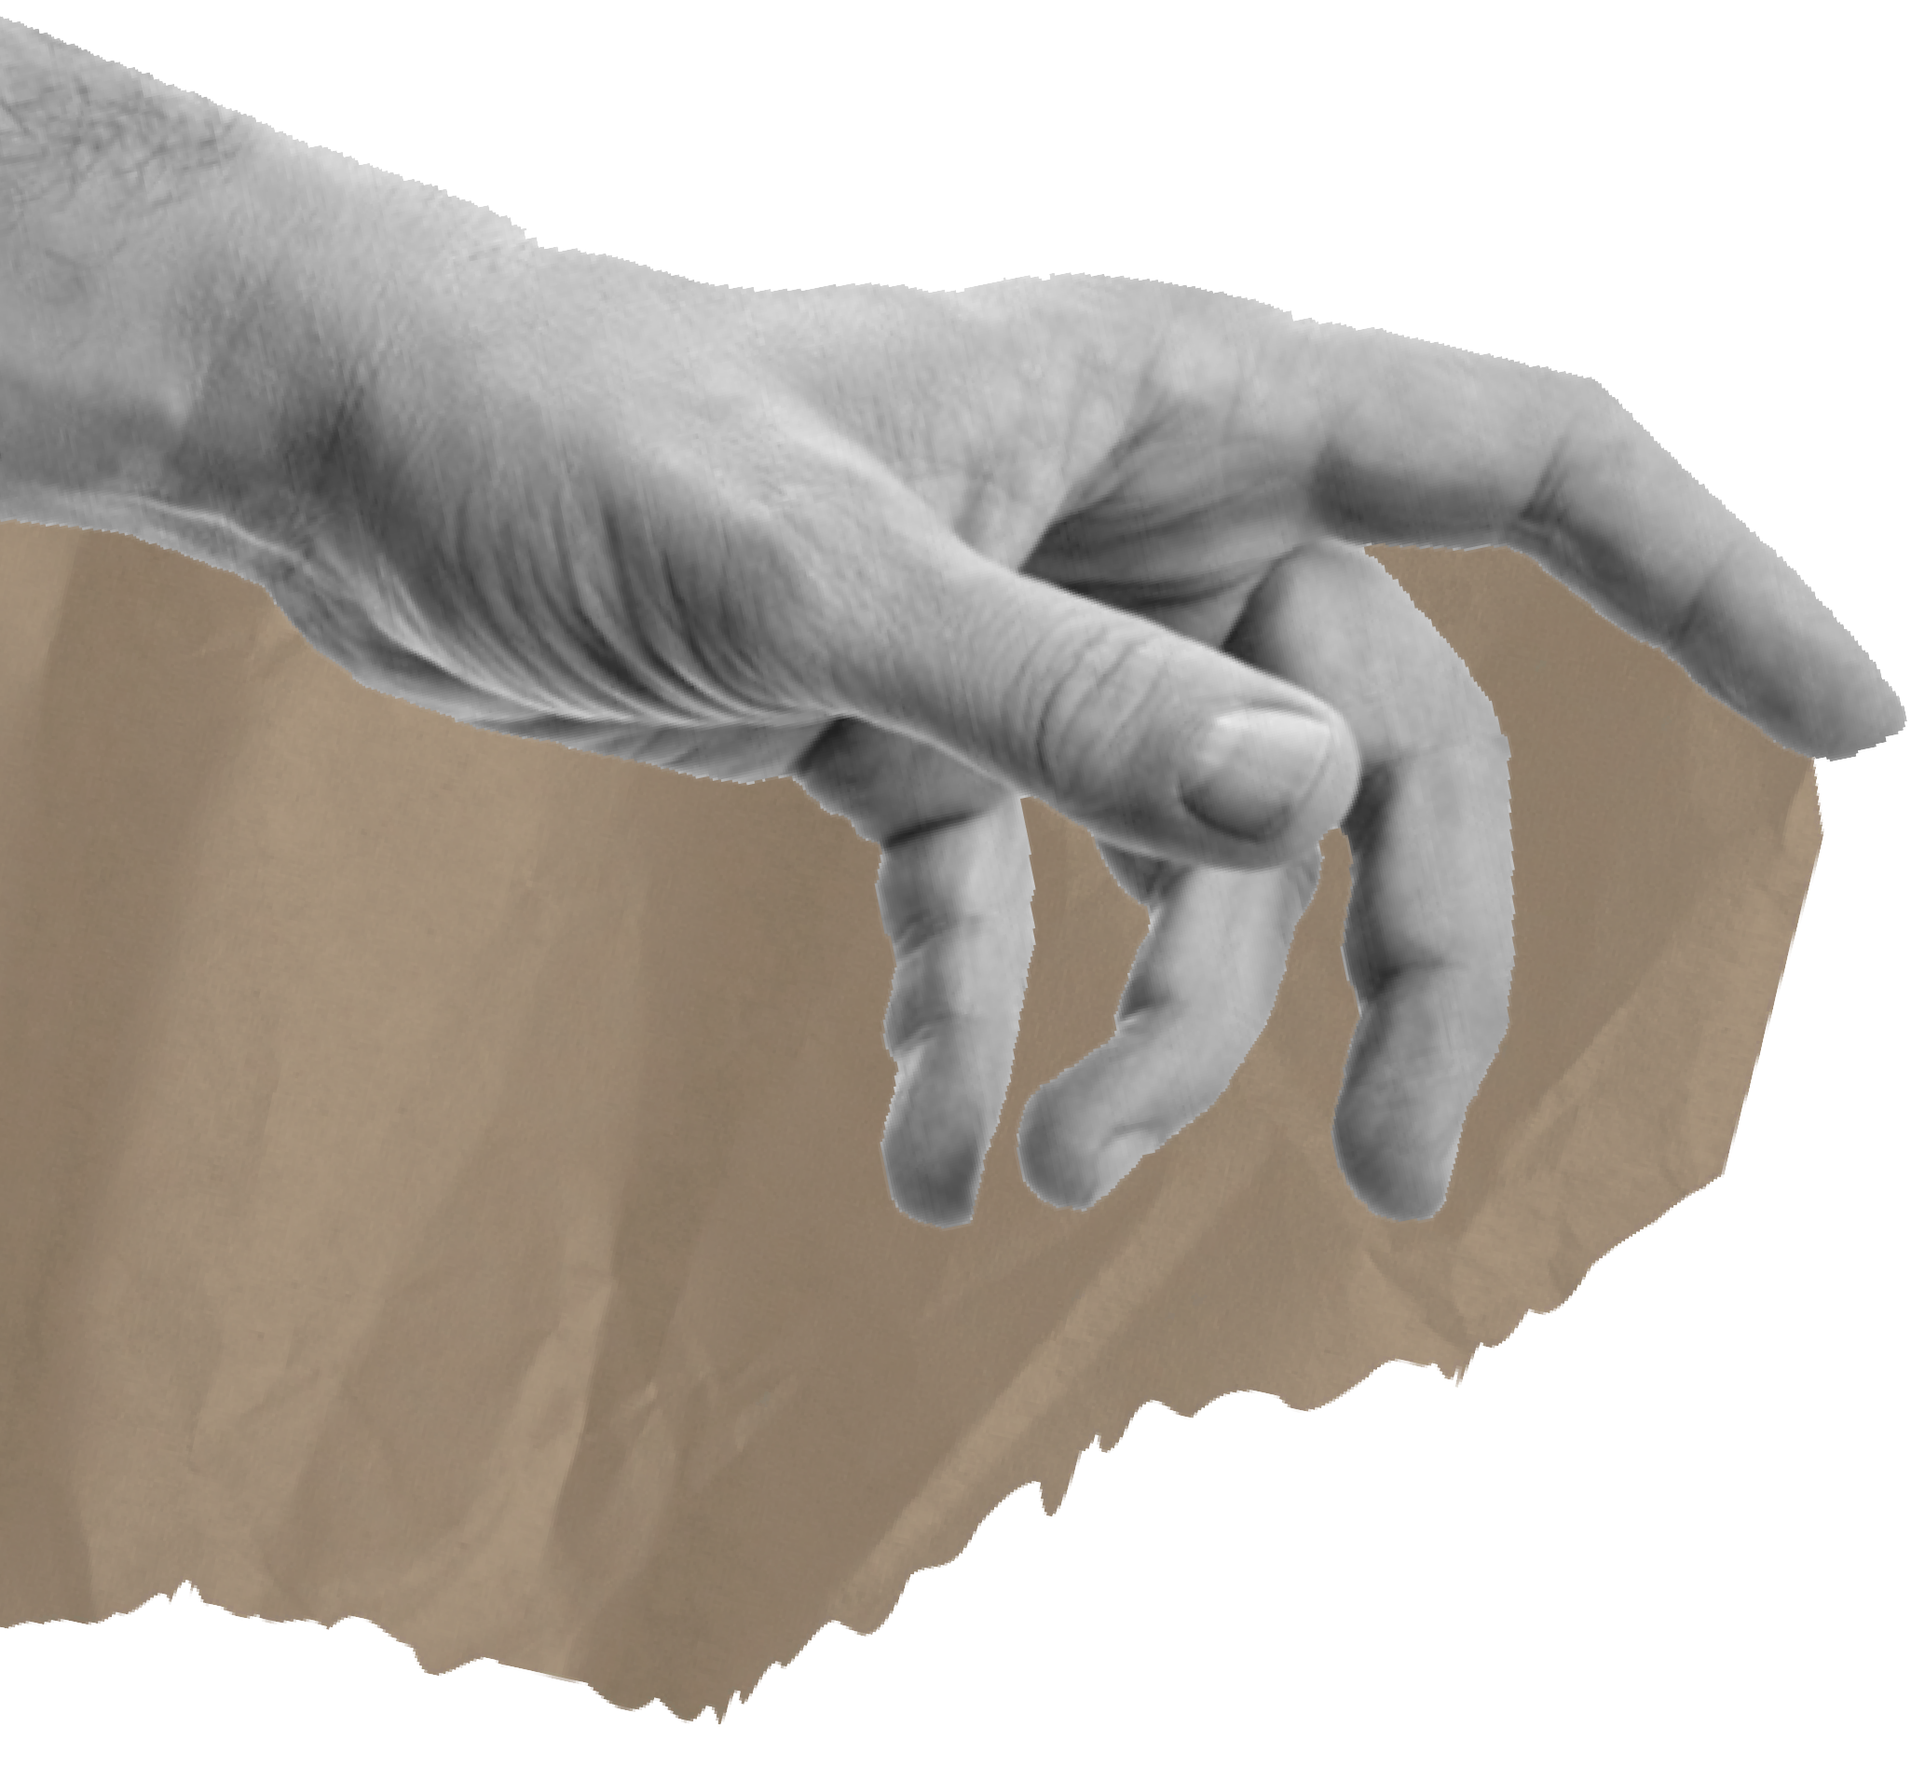
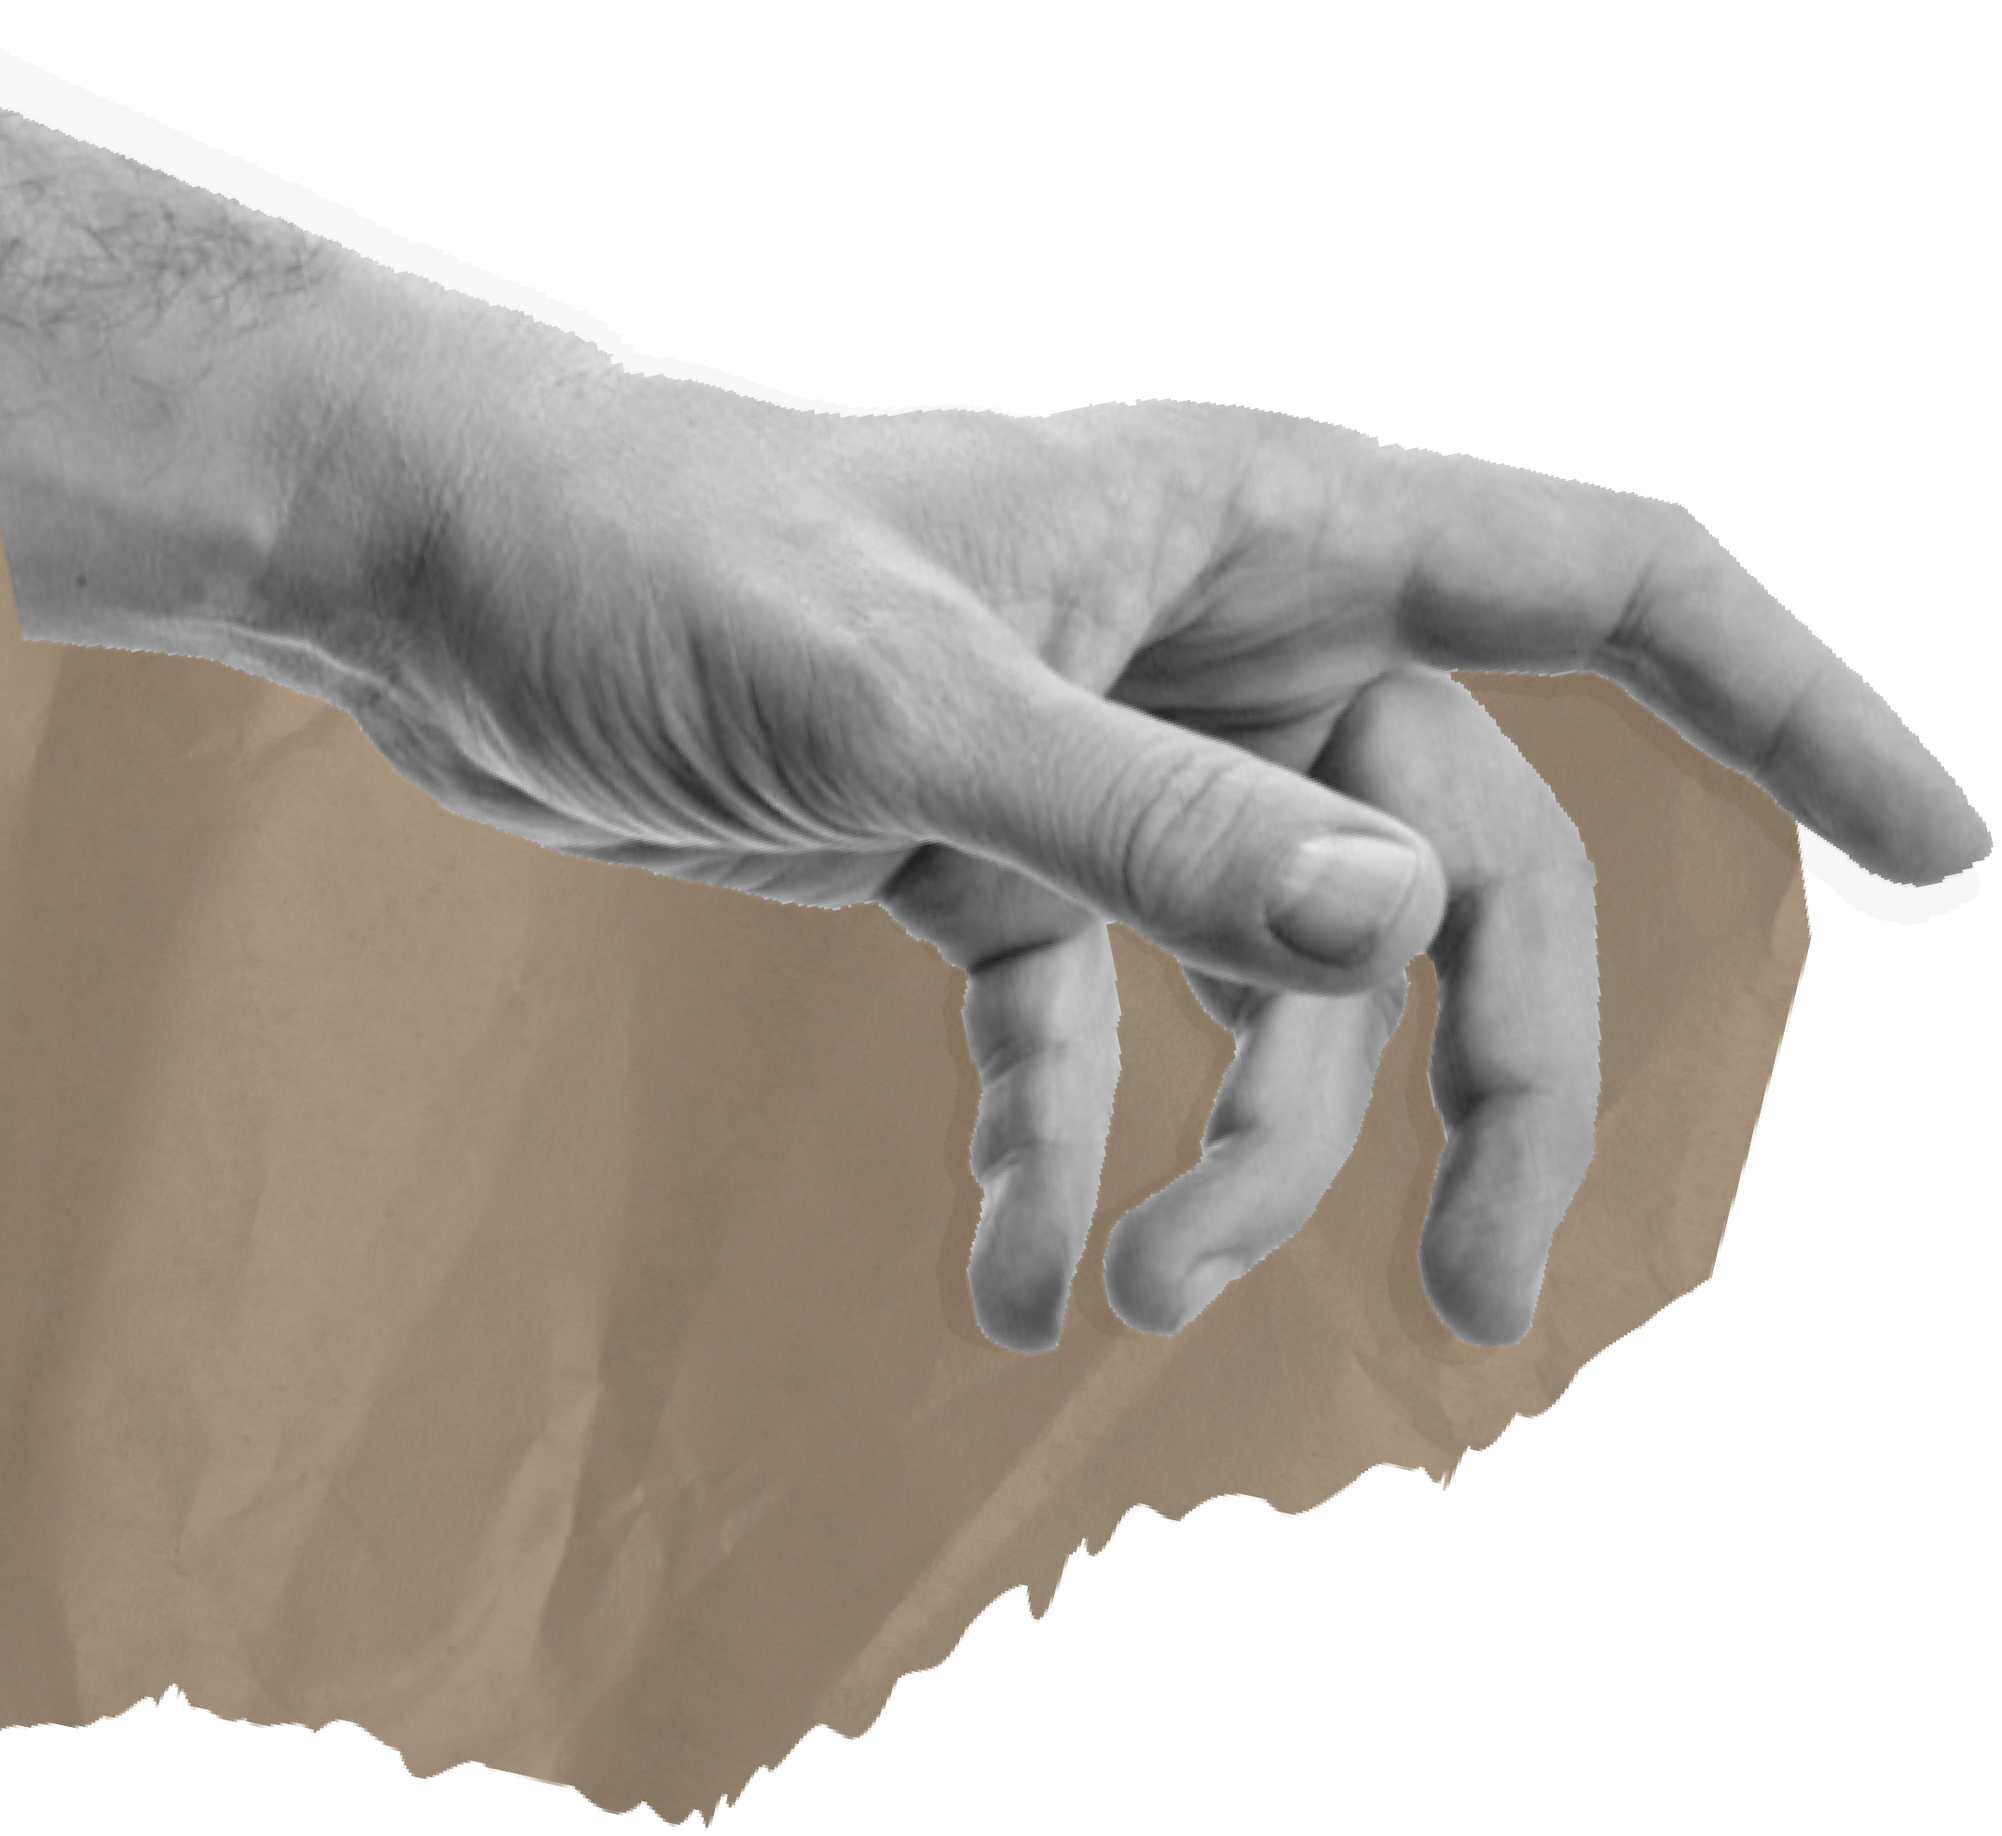
Atualização do site institucional 21/04

diff --git a/Anilmar/Site institucional/style.css b/Anilmar/Site institucional/style.css
@@ -9,15 +9,13 @@ body{
     height: 100%;
     color: #FBE0C0;
     background-color: #FBE0C0;
-    background-image: url(./imgs/fundoretro.png);
-    background-repeat: no-repeat;
-    background-size: cover;
-    background-position: center center;
+    height: 5649px;
 }
 
 .logoBox {
     width: 250px;
     height: 250px;
+    z-index: 2;
 }
   
 .logoImg {
@@ -28,7 +26,6 @@ body{
     cursor: pointer;
 }
 
-
 .headerBox{
     display: flex;
     background-color: #414C30;
@@ -36,13 +33,6 @@ body{
     width: 100%;
     box-shadow: 6px 6px 16px 0px rgba(0,0,0,0.6);
 }
-
-/* .buttonsBox{
-    height: 100%;
-    display: flex;
-    justify-content: space-around;
-    align-items: center;
-} */
 
 .text-nav{
     display: flex;
@@ -96,56 +86,91 @@ body{
     transition-duration: 0.2s;  
 }
 
-
-/* .primeira-main{
+.page-principal {
+    background-image: linear-gradient(to bottom, rgba(251, 224, 192, 0.2), rgba(251, 224, 192, 1)), url('./imgs/image.png');
+    background-repeat: no-repeat;
+    background-position: center;
+    background-size: cover;
+    height: 100vh;
+    mix-blend-mode: luminosity;
     display: flex;
-    justify-content: space-between;
-    margin-top: 20px;
-    align-items: center;
-    height: 700px;
+    justify-content: center;
+    z-index: 1;
 }
 
-.main-img img{
-    position: relative;
-    top: 190px;
-    width: 50vw;
-}
-
-.main-txt{
-    margin-left: 50px;
-    padding-bottom: 350px;
-    align-items: center;
-    display: flex;
-    flex-direction: column;
-    padding-top: 450px;
-}
-
-.main-txt p{
-    font-size: 40px;
-    color: #1B3606;
-    align-items: center;
-    text-shadow: 2px 3px 2px rgba(0, 0, 0, 0.205);
+.page-principal img{
+    height: 528px;
+    margin-top: 5%;
 }
 
 .segunda-main{
     display: flex;
-    justify-content: space-between;
     align-items: center;
 }
 
-.main-txt2{
+.segunda-txt{
+    position: absolute;
     display: flex;
-    flex-direction: column;
-    margin-right: 50px;
+    justify-content: center;
+    width: 50%;
+    z-index: 1;
+    background-color: #414C30;
+    box-shadow: 0px 15px 10px rgba(0, 0, 0, 0.24);
 }
 
-.main-img2 img{
-    width: 50vw;
+.segunda-txt p{
+    margin: 0 100px;
+    font-family: 'Podkova';
+    font-size: 45px;
+    color: #FFF;
 }
 
-.main-txt2 p{
-    font-size: 40px;
-    color: #1B3606;
+.segunda-img{
+    width: 60%;
+    z-index: 2;
+}
+
+.segunda-img img{
+    width: 100%;
+    margin-left: 66%;
+}
+
+.terceira-main{
+    display: flex;
+    align-items: center;
+}
+
+.inverso{
+    position: absolute;
+    width: 100%;
+    display: flex;
+    flex-direction: row-reverse;
+}
+
+.terceira-txt{
+    position: absolute;
+    display: flex;
+    justify-content: center;
+    width: 53.5%;
+    z-index: 1;
+    background-color: #414C30;
+    box-shadow: 0px 15px 10px rgba(0, 0, 0, 0.24);
+}
+
+.terceira-txt p{
+    margin: 0 100px;
+    font-family: 'Podkova';
+    font-size: 45px;
     text-align: right;
-} */
+    color: #FFF;
+}
 
+.terceira-img{
+    width: 60%;
+    z-index: 2;
+}
+
+.terceira-img img{
+    width: 100%;
+
+}

diff --git a/Anilmar/Site institucional/index.html b/Anilmar/Site institucional/index.html
@@ -6,6 +6,7 @@
     <link rel="stylesheet" href="./style.css">
     <link rel="preconnect" href="https://fonts.googleapis.com">
     <link rel="preconnect" href="https://fonts.gstatic.com" crossorigin>
+    <link href="https://fonts.googleapis.com/css2?family=Podkova:wght@400..800&display=swap" rel="stylesheet">
     <link href="https://fonts.googleapis.com/css2?family=Poppins:ital,wght@0,100;0,200;0,300;0,400;0,500;0,600;0,700;0,800;0,900;1,100;1,200;1,300;1,400;1,500;1,600;1,700;1,800;1,900&display=swap" rel="stylesheet">
     <title>Alfa Folium</title>
 </head>
@@ -30,42 +31,30 @@
         </div>
     </header>
     
-    <!-- <main>
-        <div class="primeira-main">
-            <div class="main-txt">
-                <img src="./imgs/7 1.png" alt="">
-                <p>
-                    Aqui, desenvolvemos <b>a 
-                    melhor tecnologia</b> para 
-                    monitorar de perto a 
-                    temperatura e a umidade 
-                    dentro das suas estufas de 
-                    alface, garantindo as 
-                    <b>condições ideais</b> de 
-                    crescimento da colheita.
-                </p>
+    <main>
+        <section class="page-principal">
+            <img src="./imgs/slogan.png" alt="">
+        </section>
+        <section class="segunda-main">
+            <div class="segunda-txt">
+                <p>Desenvolvemos a melhor tecnologia de monitoramento.</p>
             </div>
-            <div class="main-img">
+            <div class="segunda-img">
                 <img src="./imgs/img-main.png" alt="">
             </div>
-        </div>
+        </section>
 
-        <div class="segunda-main">
-            <div class="main-img2">
+        <section class="terceira-main">
+            <div class="terceira-img">
                 <img src="./imgs/img-main2.png" alt="">
             </div>
-            <div class="main-txt2">
-                <img src="./imgs/7 1.png" alt="">
-                <p>
-                    Nossa empresa <b>lidera</b> o
-                    mercado com esse projeto 
-                    inovador, combinando 
-                    <b>expertise agrícola</b> e 
-                    <b>tecnologia de ponta.</b>
-                </p>
+            <div class="inverso">
+                <div class="terceira-txt">
+                    <p>Lideramos o mercado combinando experitse agrícola e tecnologia de ponta.</p>
+                </div>
             </div>
-        </div>
-    </main> -->
+        </section>
+    </main>
 
     
 </body>
